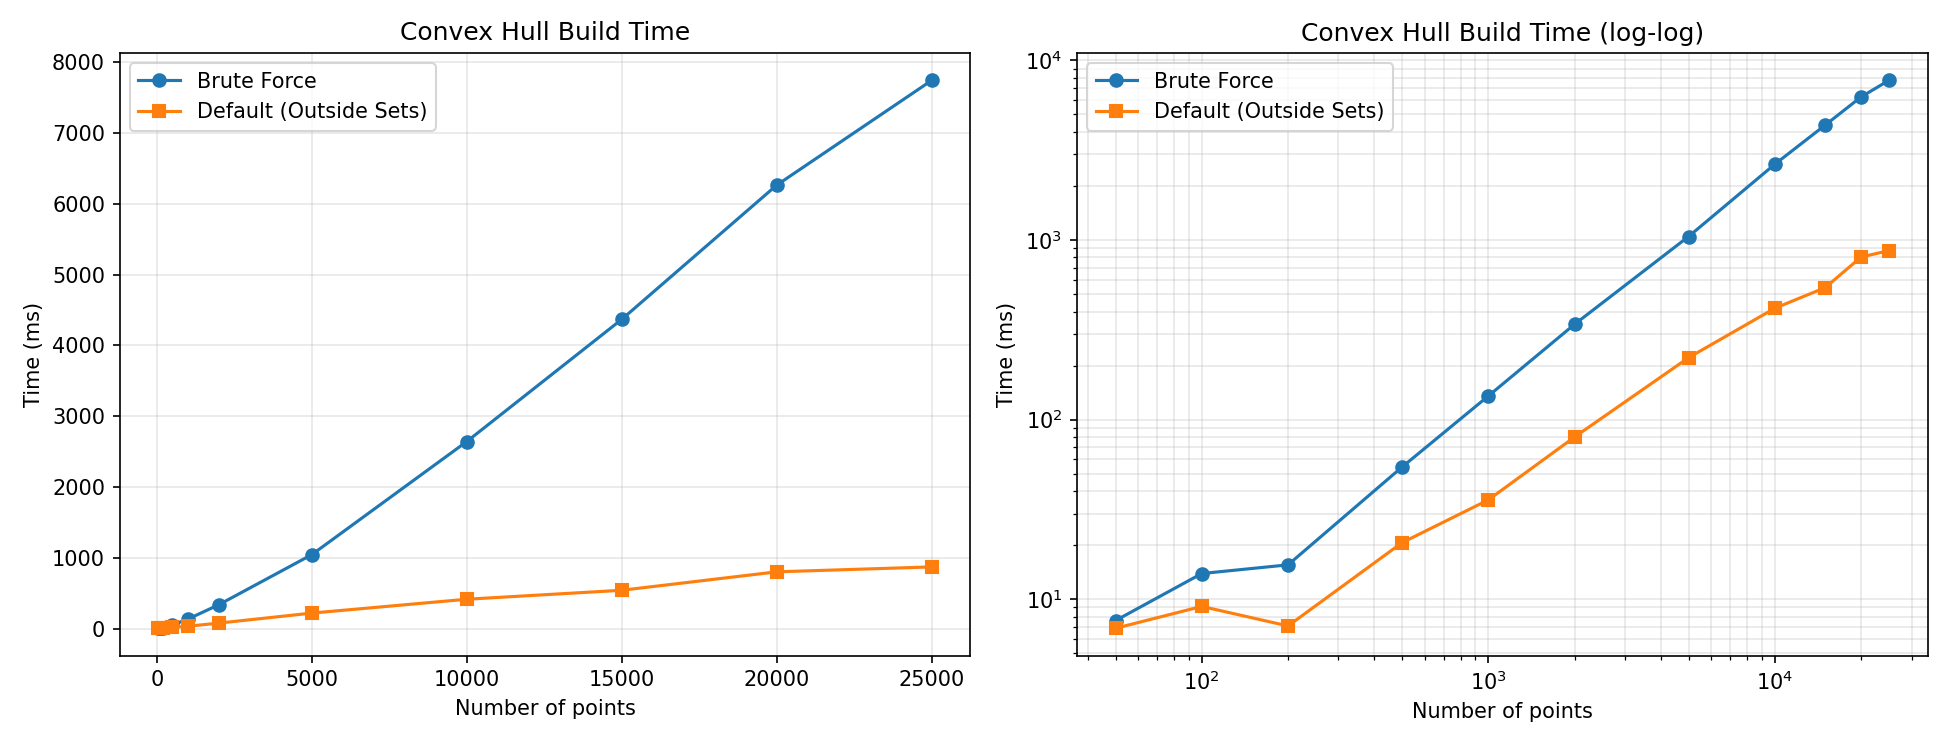
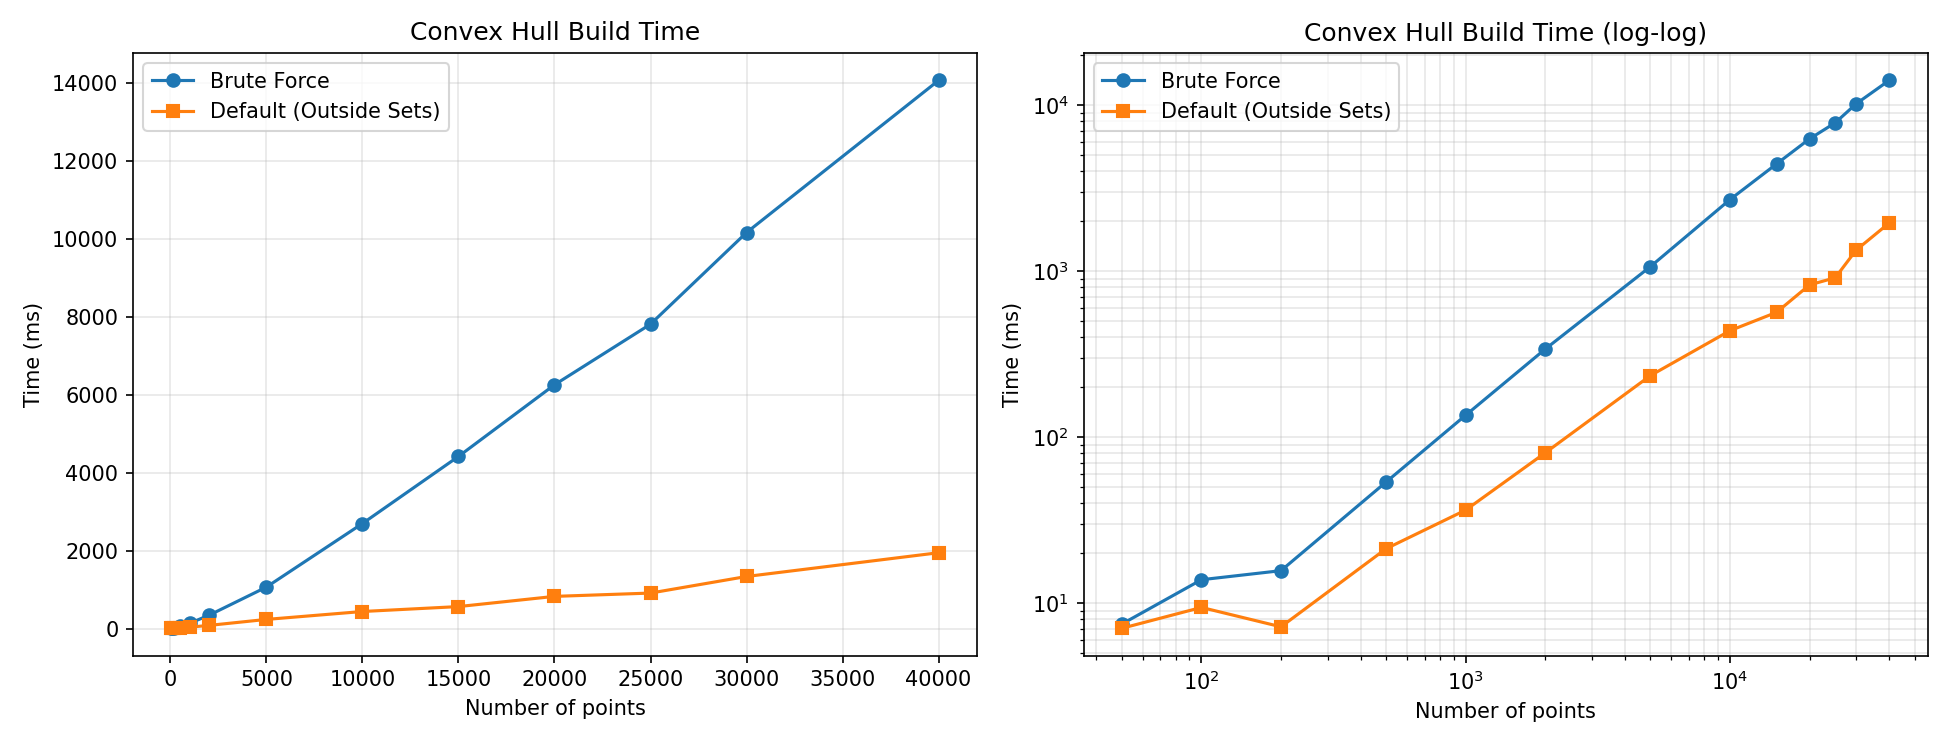
Update the benchmark plot

diff --git a/src/ExactHull.Demo/Program.cs b/src/ExactHull.Demo/Program.cs
@@ -2,7 +2,7 @@ using System.Diagnostics;
 using System.Globalization;
 using ExactHull;
 
-int[] sizes = [50, 100, 200, 500, 1000, 2000, 5000, 10000, 15000, 20000, 25000];
+int[] sizes = [50, 100, 200, 500, 1000, 2000, 5000, 10000, 15000, 20000, 25000, 30000, 40000];
 const int runsPerSize = 10;
 const int warmupRuns = 2;
 
